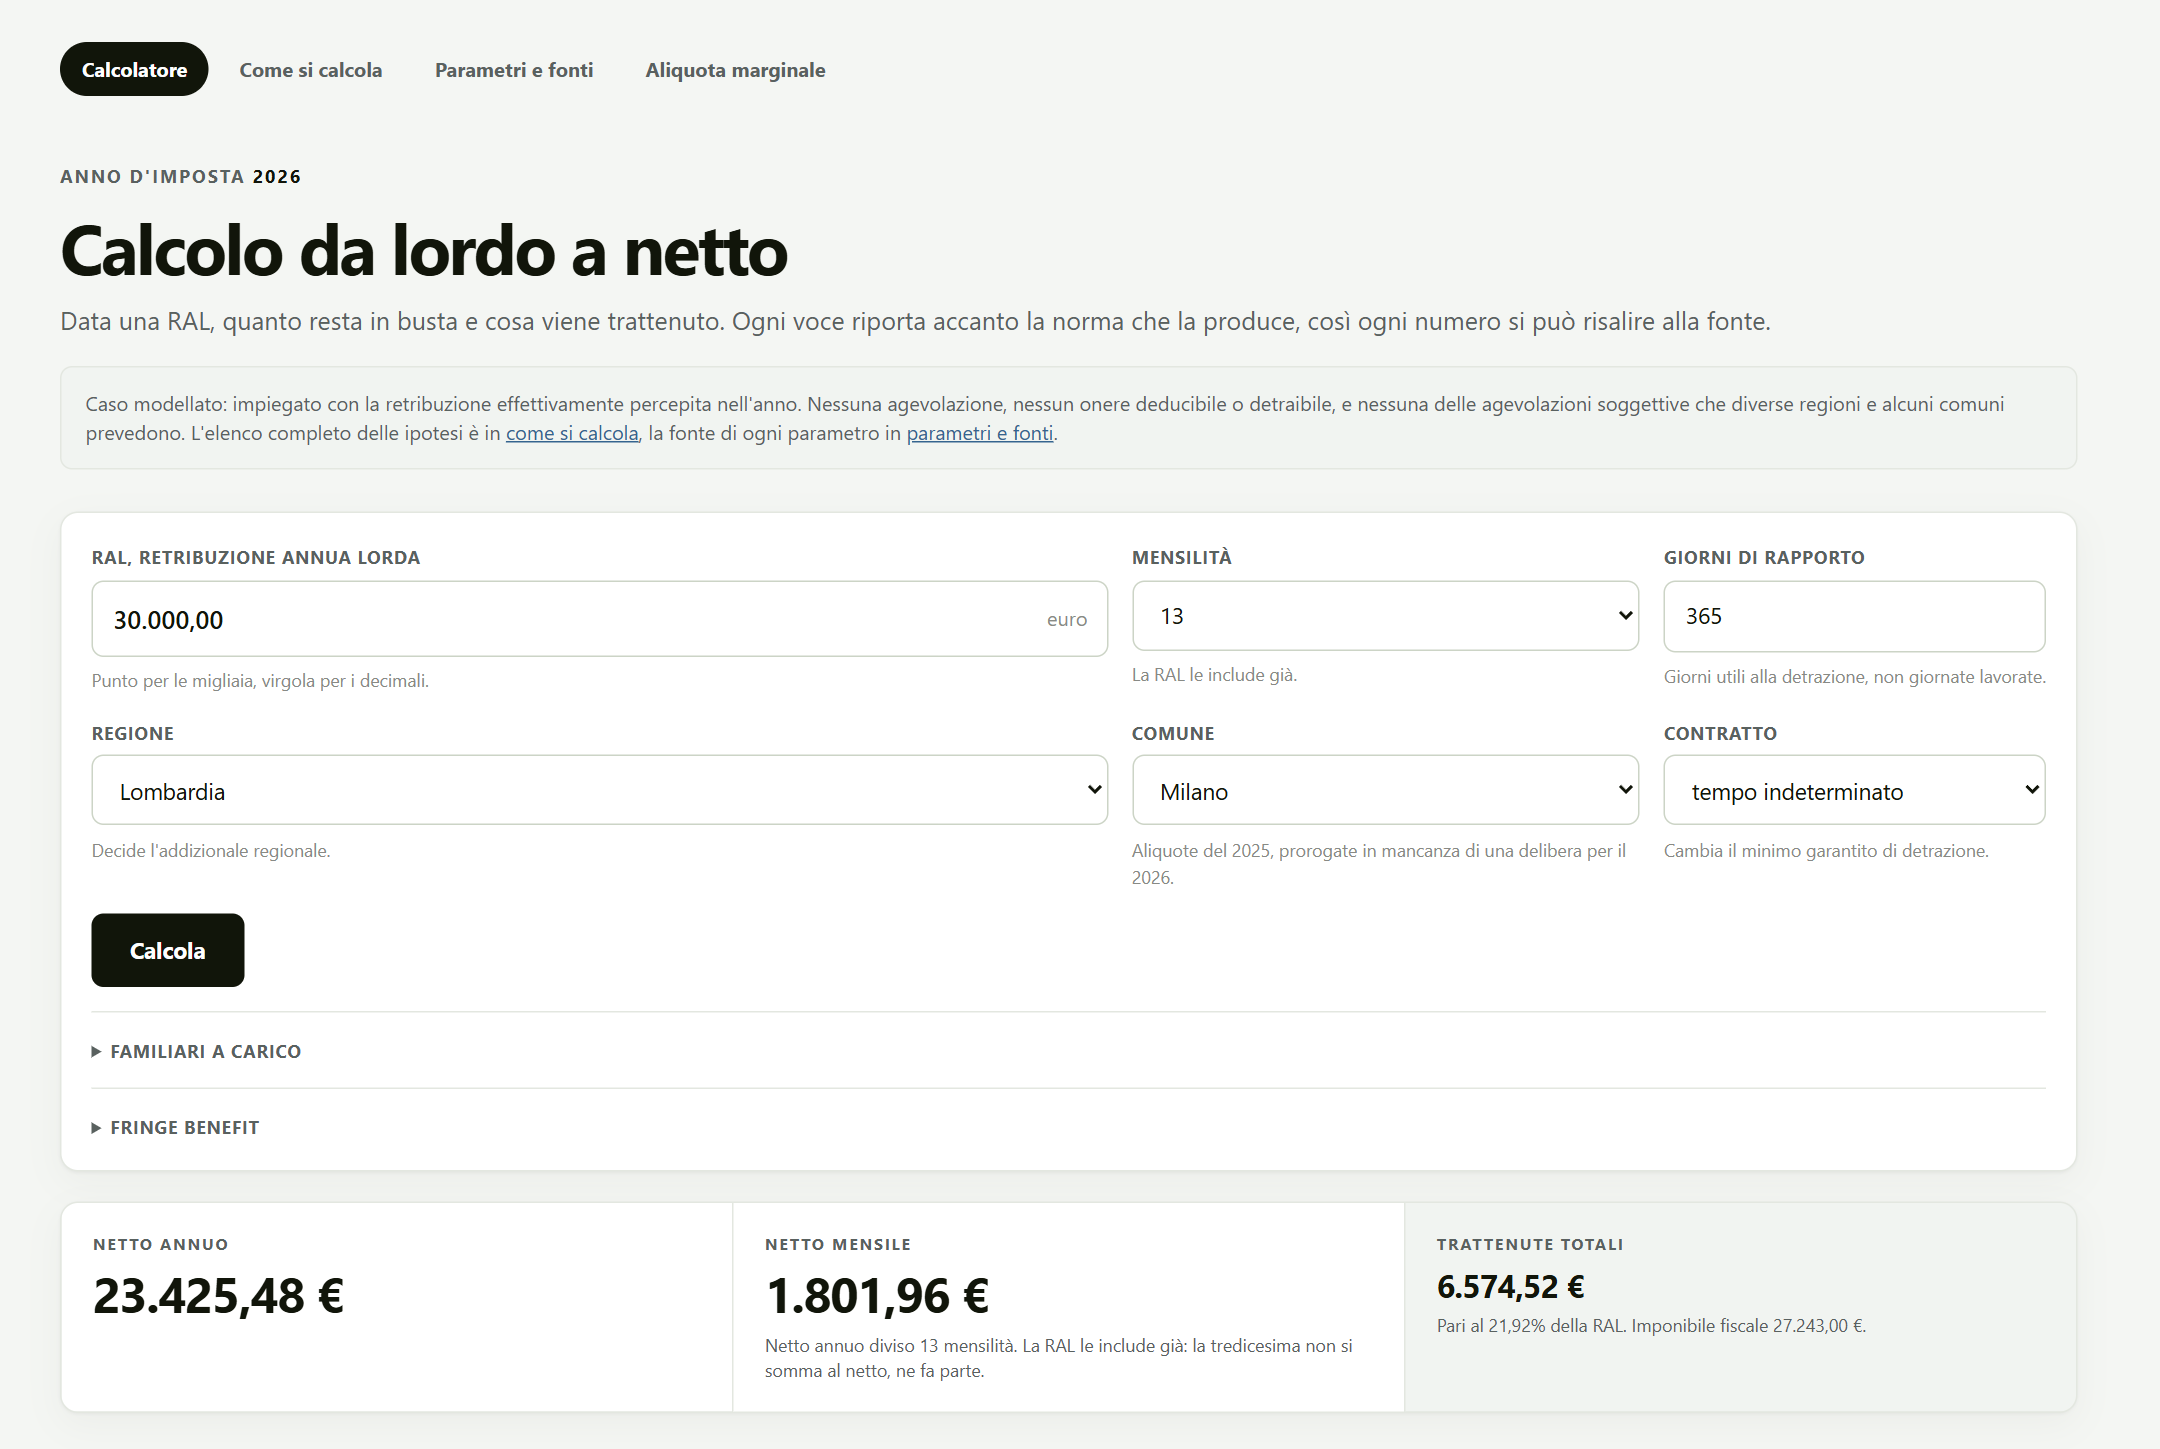
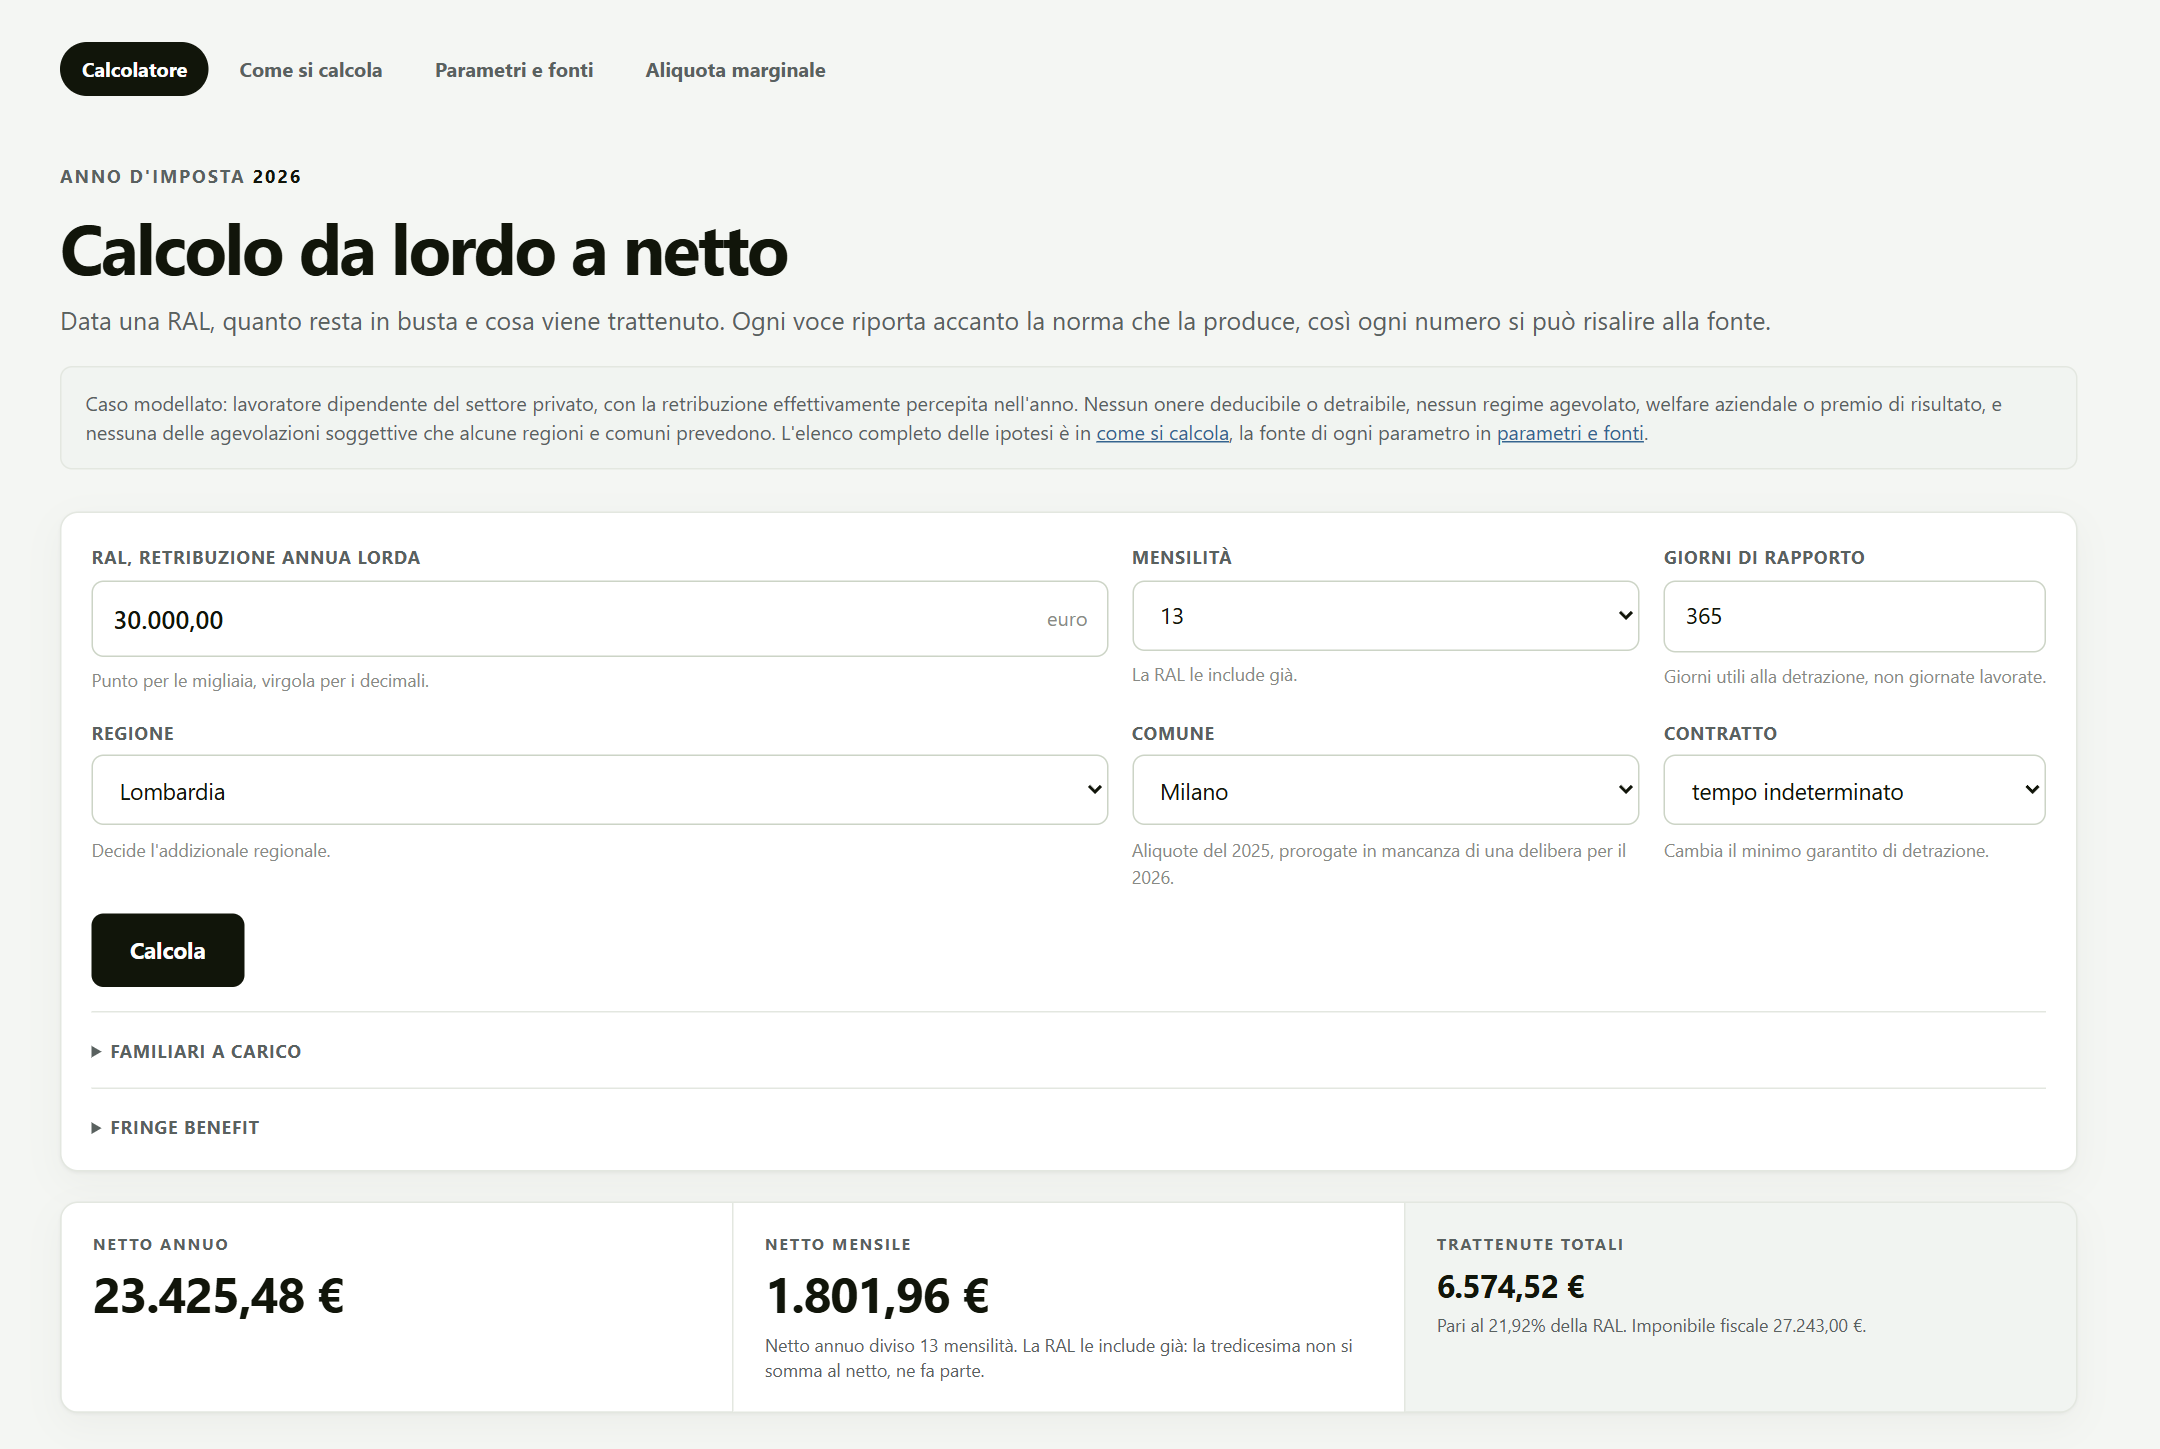
Caso modellato descritto con precisione

Changed region(s): [[0.031, 0.2795, 0.7755, 0.3106], [0.8375, 0.2795, 0.8685, 0.3106]]

diff --git a/index.html b/index.html
@@ -26,10 +26,11 @@
     accanto la norma che la produce, così ogni numero si può risalire alla fonte.
   </p>
   <p class="case-note">
-    Caso modellato: impiegato con la retribuzione effettivamente percepita
-    nell'anno. Nessuna agevolazione, nessun onere deducibile o detraibile, e
-    nessuna delle agevolazioni soggettive che diverse regioni e alcuni comuni
-    prevedono. L'elenco completo delle ipotesi è in
+    Caso modellato: lavoratore dipendente del settore privato, con la
+    retribuzione effettivamente percepita nell'anno. Nessun onere deducibile o
+    detraibile, nessun regime agevolato, welfare aziendale o premio di
+    risultato, e nessuna delle agevolazioni soggettive che alcune regioni e
+    comuni prevedono. L'elenco completo delle ipotesi è in
     <a href="metodo.html">come si calcola</a>, la fonte di ogni parametro in
     <a href="parametri.html">parametri e fonti</a>.
   </p>
